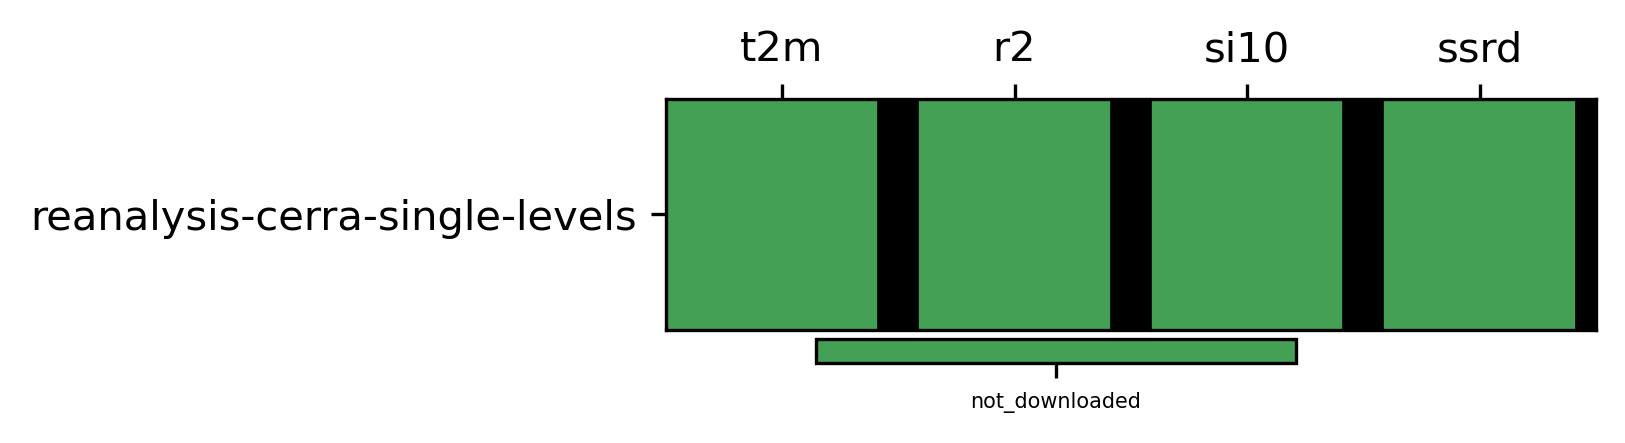
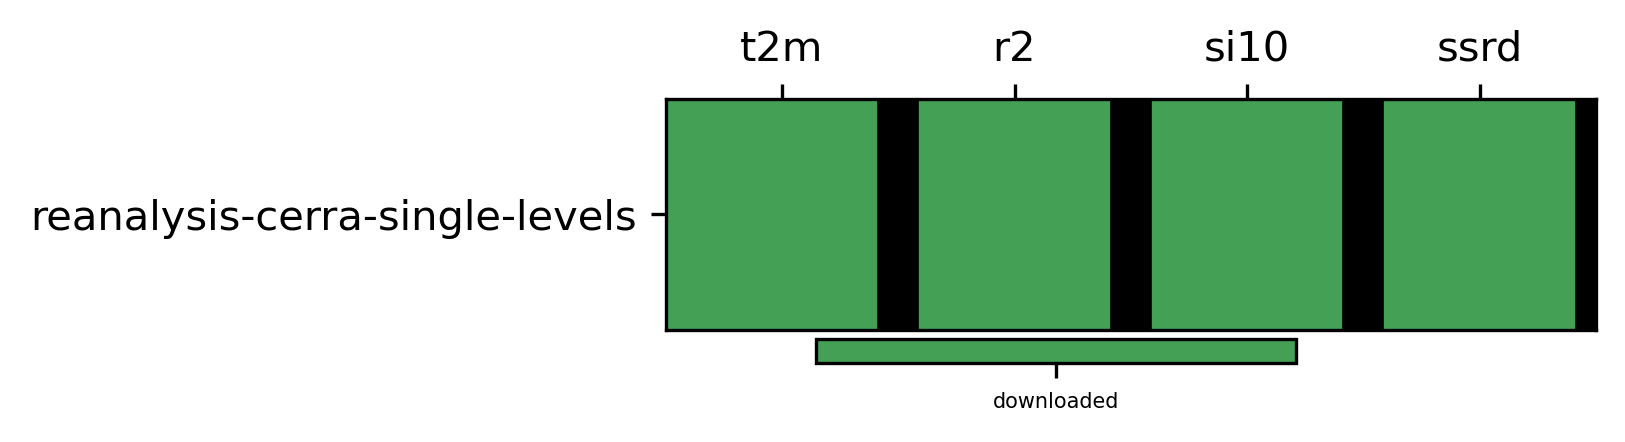
update cataloge production

diff --git a/catalogues/produce_catalog.py b/catalogues/produce_catalog.py
@@ -138,7 +138,8 @@ def create_auxiliar_df(data):
             'start_file_exists': start_year_exists,
             'final_file_exists': end_year_exists,
             'earliest_date': earliest_dates,
-            'latest_date': latest_dates
+            'latest_date': latest_dates,
+            'script': row['script']
         }
 
         if row['dataset_type'] in ['projections']:
@@ -150,7 +151,7 @@ def create_auxiliar_df(data):
     df = pd.DataFrame(rows, columns=[
         'variable','model','experiment','dataset','dataset_type',
         'product_type','temporal_resolution','interpolation','data_path','origin_path',
-        'start_file_exists','final_file_exists','earliest_date','latest_date'
+        'start_file_exists','final_file_exists','earliest_date','latest_date','script'
     ])
     return df, row['dataset_type']
 
@@ -178,6 +179,8 @@ def process_csv_file(file_path, type_data):
     for ind in df_final.index:
         for col in df_final.columns:
             if dataset_type in ["reanalysis"]:
+                logging.info(f"Processing variable {col[0]} for reanalysis dataset {project}")
+                logging.info(f"aux_df: {aux_df}")
                 if aux_df.loc[aux_df['variable']==col[0]]['start_file_exists'].squeeze()==True and \
                    aux_df.loc[aux_df['variable']==col[0]]['final_file_exists'].squeeze()==True:
                     value=0
@@ -189,8 +192,9 @@ def process_csv_file(file_path, type_data):
 
     # Guardar CSV en carpeta catalogues
     aux_df.to_csv(f"catalogues/{project}_{type_data}_catalogue.csv", index=False)
-    # Generar imagen
-    plot2(df_final, varss, project, scess, list_values=list(load_values_dict().keys()))
+    # Generar imagen de las descargas
+    if type_data == "raw":
+        plot2(df_final, varss, project, scess, list_values=list(load_values_dict().keys()))
 
 # ---------------- Main ----------------
 def main():
